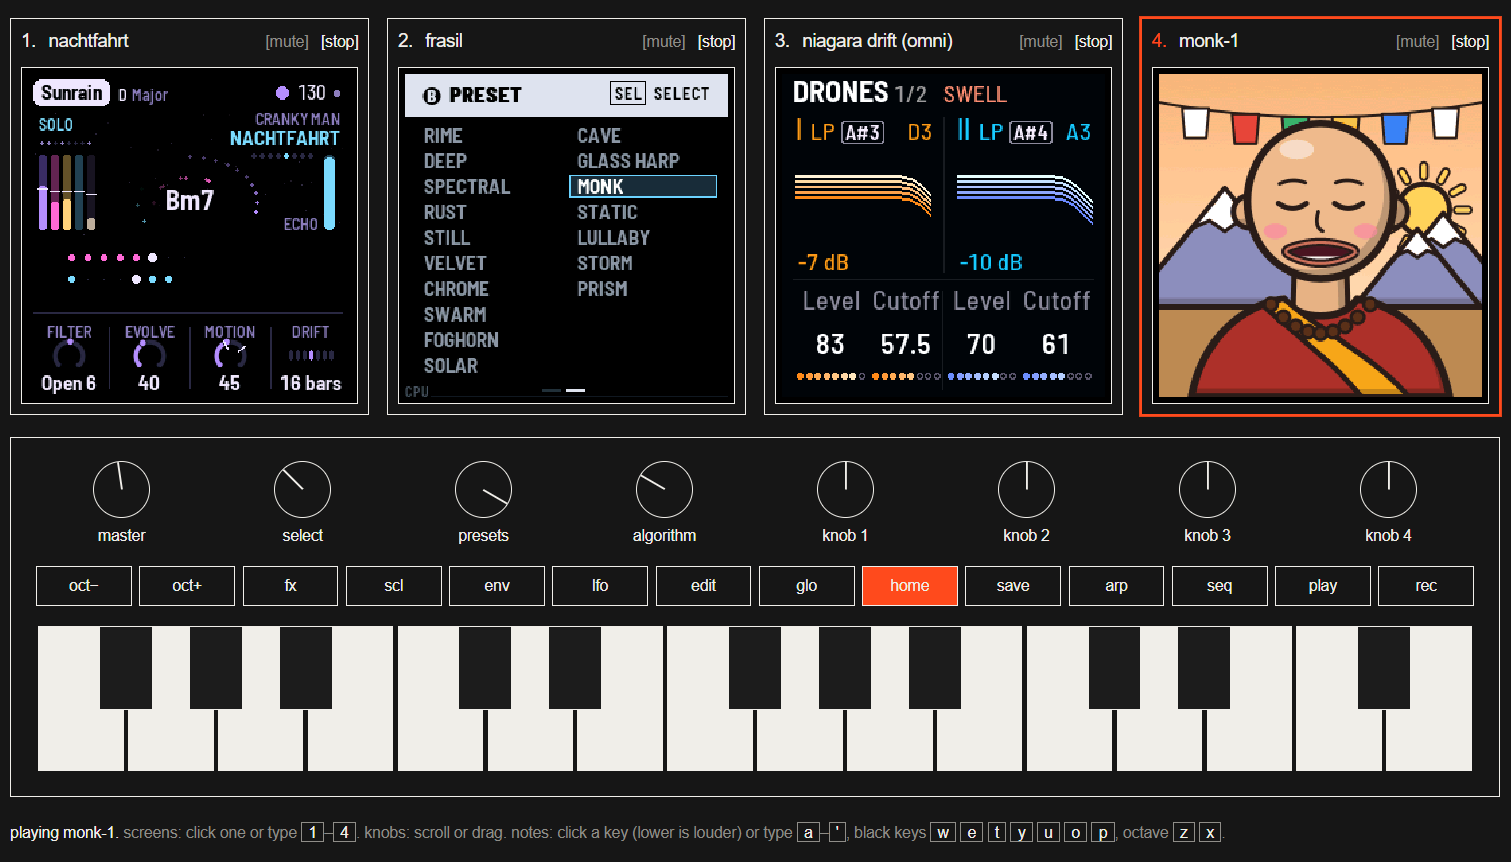
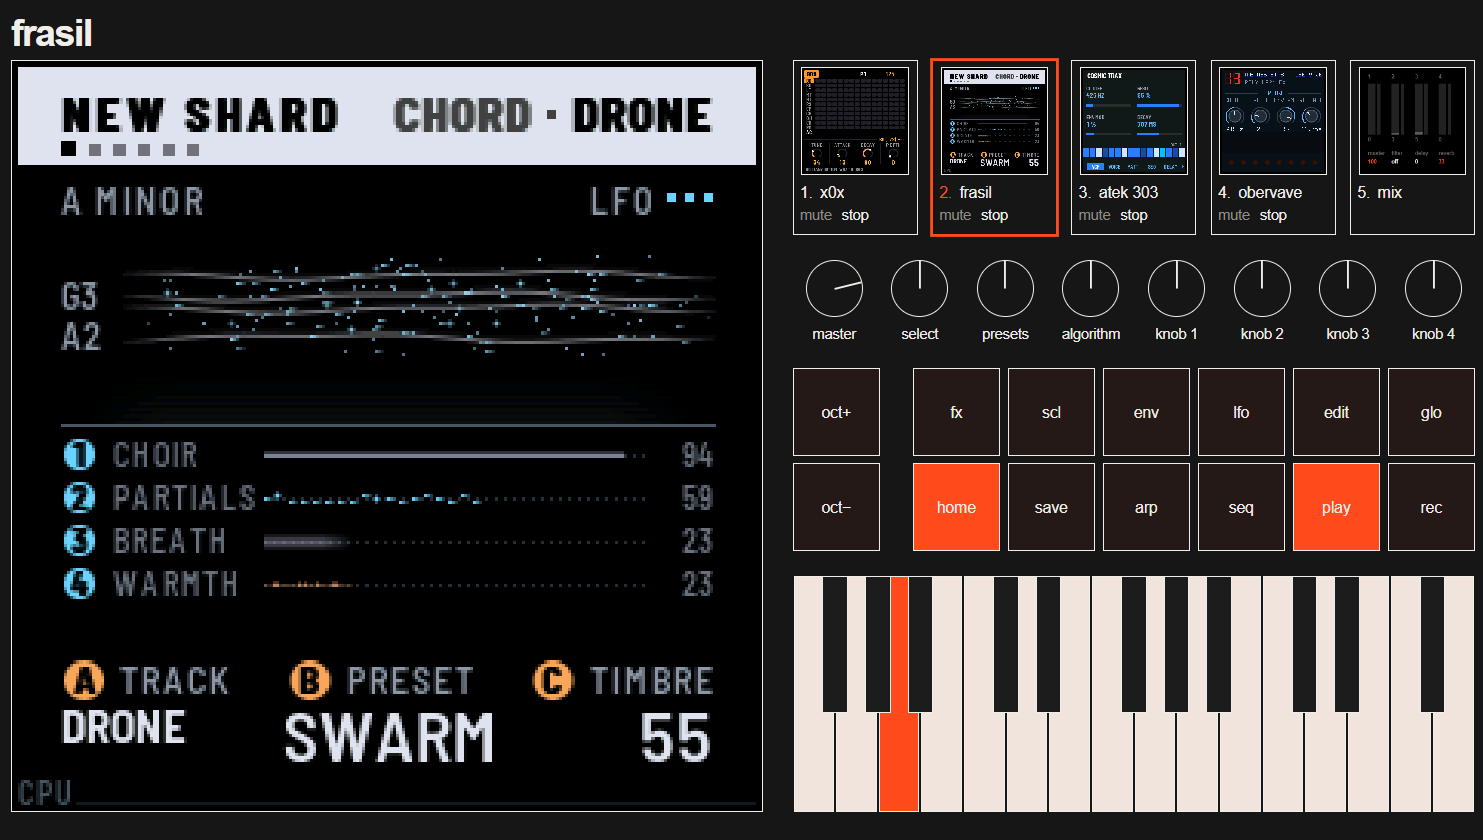
minor updates

diff --git a/README.md b/README.md
@@ -1,5 +1,5 @@
 <p align="center">
-  <img src="docs/banner.png" alt="Luka: four firmwares playing at once on screens above one front panel with knobs, buttons and keys" width="100%">
+  <img src="docs/banner.png" alt="Luka: FRASIL on the big screen, with X0X, FRASIL, ATEK 303 and OberVave in four slots beside the mix, above the knobs, buttons and keys" width="100%">
 </p>
 
 # Luka
